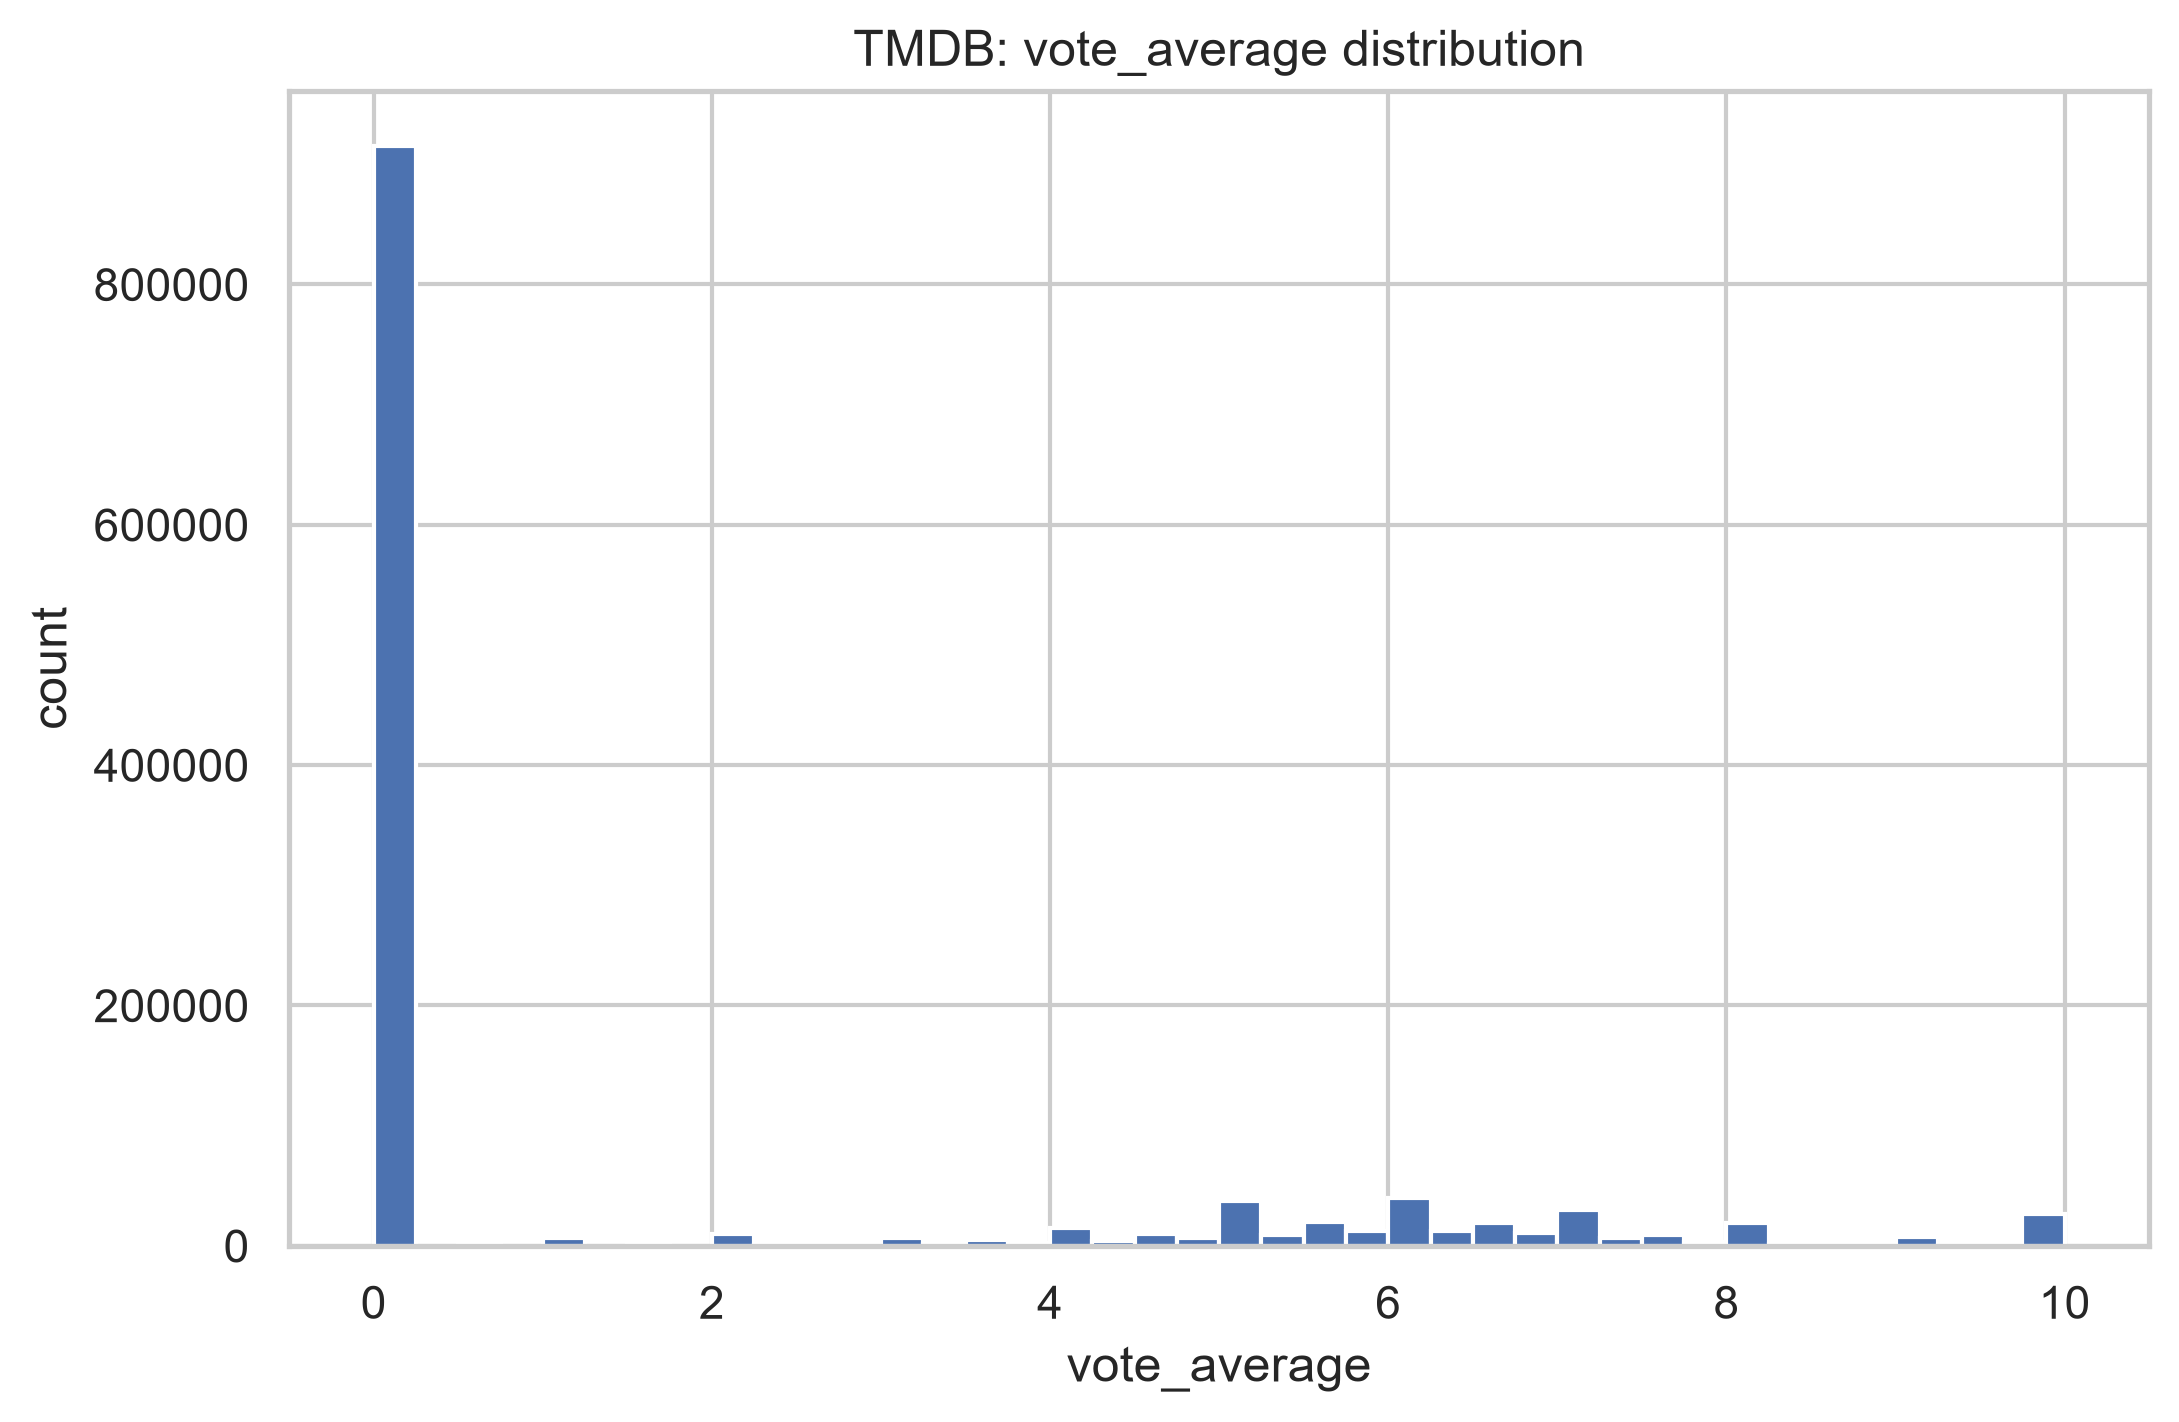
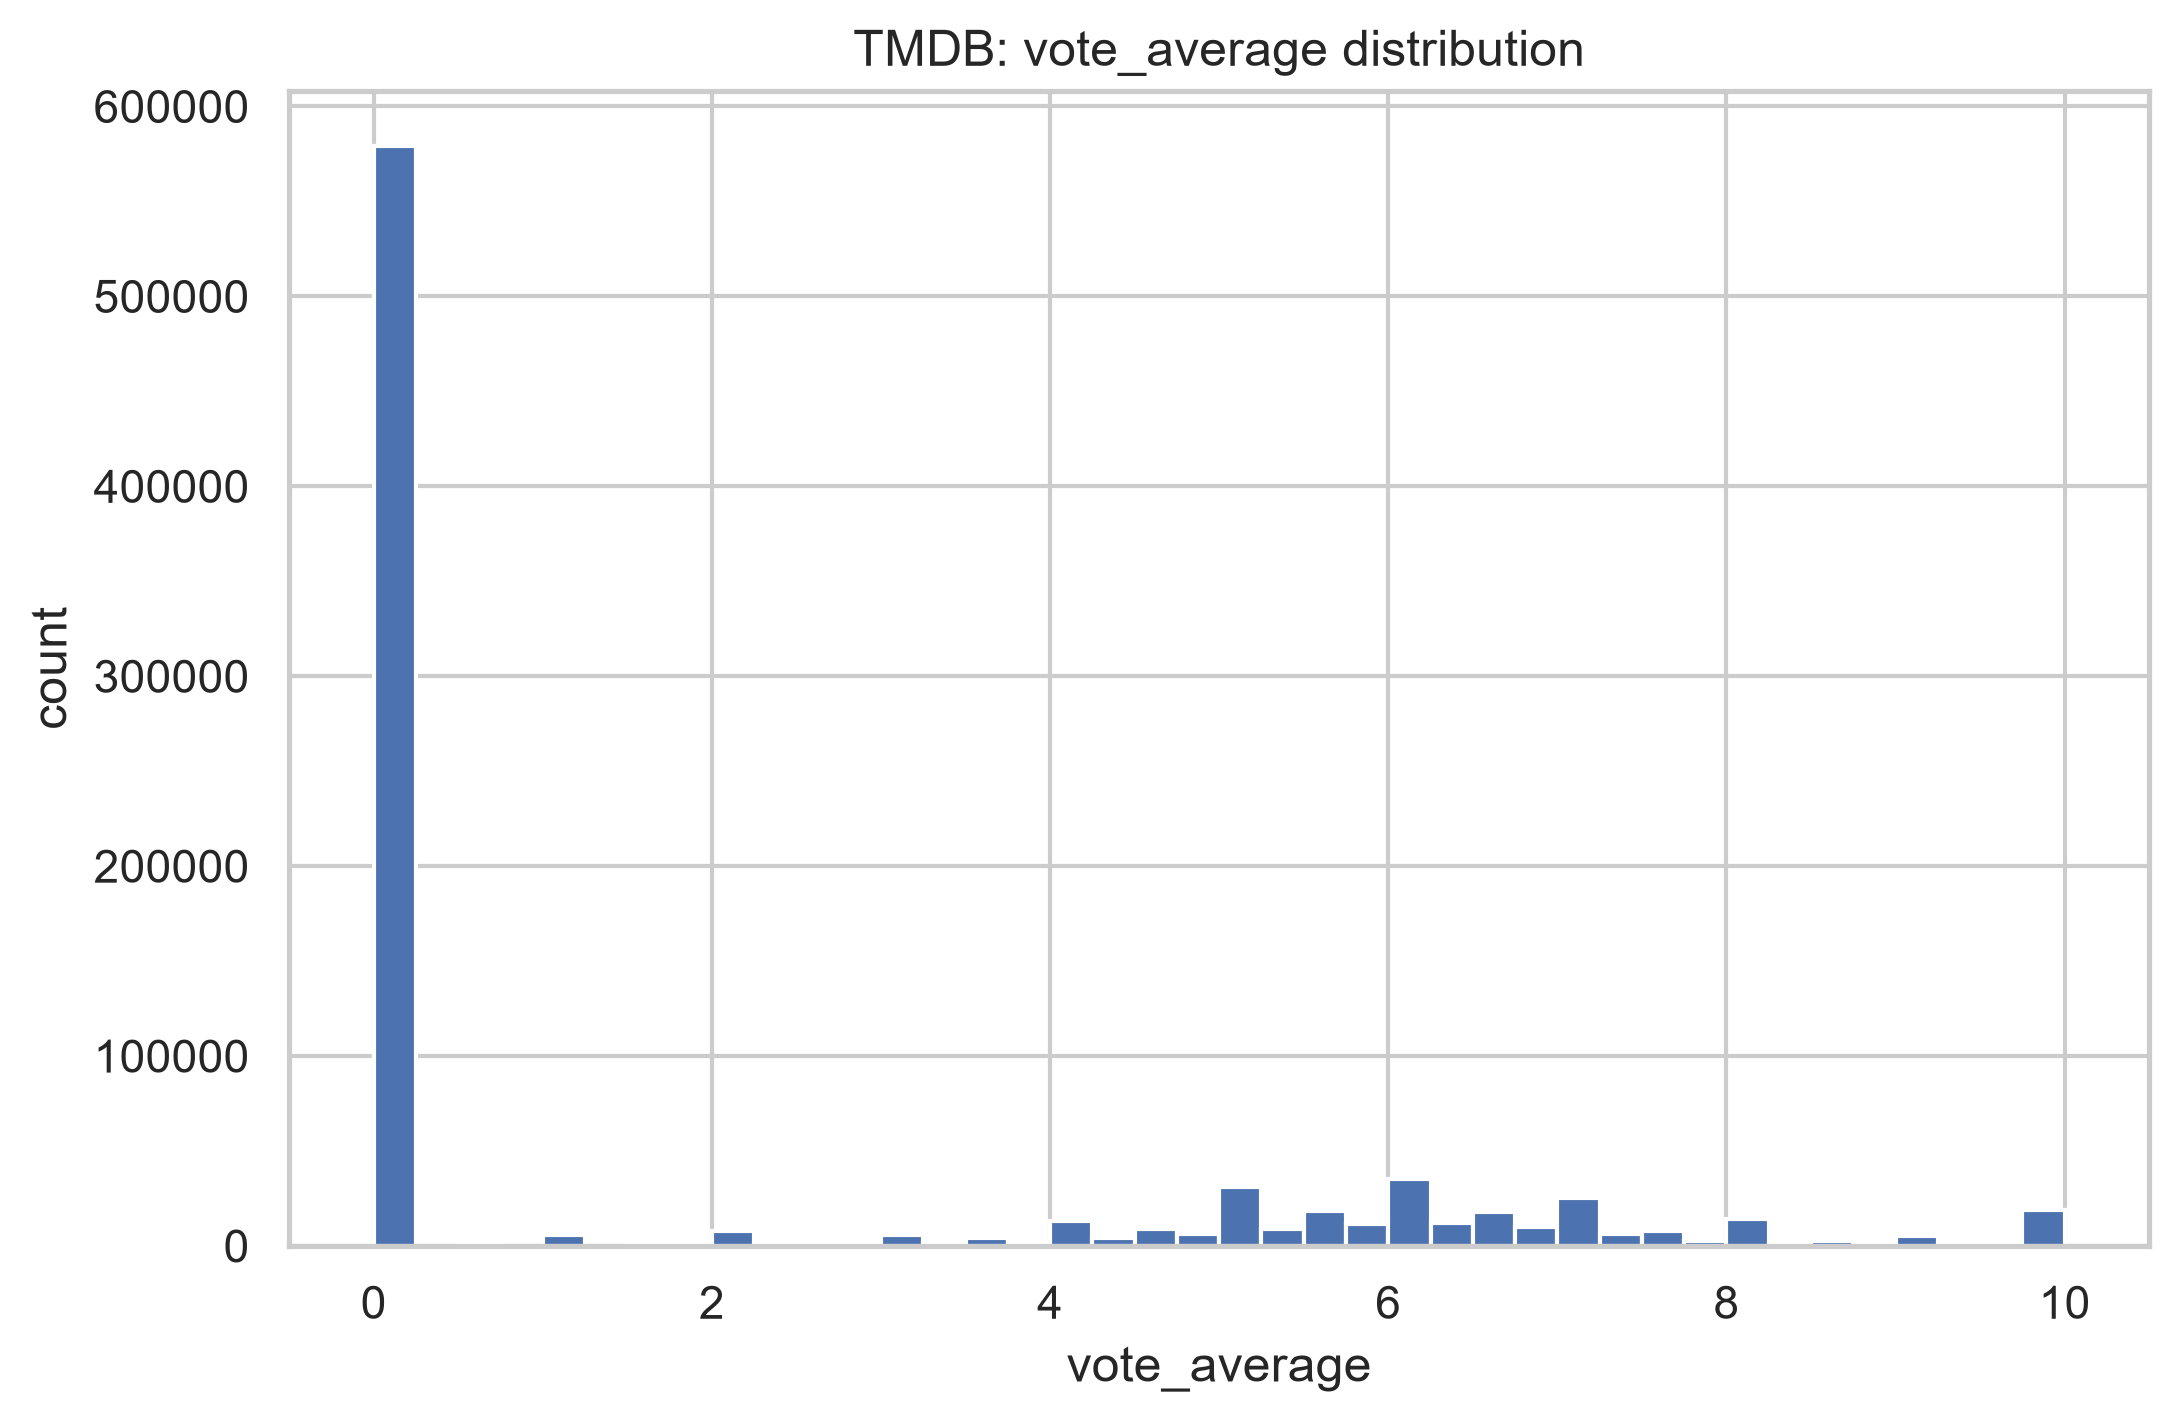
fix(eda): drop missing runtime rows and fill missing overview
- 01_overview_cleaning: drop rows with runtime still NaN after recodes
- 02_preprocessing: fill missing overview with "" on both candidates
- Re-ran both notebooks, updating reports/eda_log.md with fresh summaries
- Updated 01_* figures: missingness matrix, vote_average histogram; as a
  result of re-running 01_overview_cleaning

diff --git a/reports/eda_log.md b/reports/eda_log.md
@@ -233,3 +233,44 @@ Figures:
 
 ---
 
+## 01 Overview & Cleaning: TMDB -- summary (2026-08-12 08:36)
+
+- **TMDB rows (raw -> cleaned)**: 1,456,829 -> 871,113
+- **TMDB columns (raw -> cleaned)**: 24 -> 19
+- **Raw memory footprint (deep)**: 734.2 MB
+- **Dropped: status != 'Released'**: 54,181 rows
+- **Dropped: adult == True**: 527,840 rows
+- **Recoded budget/revenue zeros as NaN**: 93.8% / 98.1% of rows
+- **Recoded runtime zeros as NaN**: 30.5% of rows
+- **Recoded negative runtime/revenue as NaN**: 0.0001% / 0.0001% of rows
+- **Dropped: missing runtime rows**: 384,365
+- **Dropped: duplicate id rows**: 418 (kept most complete row per id)
+- **Dropped: duplicate imdb_id rows**: 2,250 (kept most complete row per imdb_id, tie-broken by lowest id)
+- **Dropped: missing title rows**: 6
+- **Dropped: inconsistent vote_average/vote_count rows**: 1,021
+- **Final missingness (top 3 by %)**: {'revenue': 97.61, 'budget': 92.92, 'tagline': 80.88}
+- **vote_count >= 1 / >= 5 / >= 10**: 291,889 / 121,536 / 77,473 rows (vote_count filter deferred to modeling stage, not yet applied)
+- **Saved to**: c:\Users\knowu\Documents\Project-Repos\Dissertation\smart-tabular-embeddings\data\processed\tmdb_clean.parquet
+
+Figures:
+- `reports/figures/01_tmdb_missingness_matrix_cleandata.png`
+- `reports/figures/01_tmdb_vote_average_hist.png`
+
+---
+
+## 02 Preprocessing: TMDB candidates -- summary (2026-08-12 08:37)
+
+- **Base cleaned dataset (from 01)**: (871113, 19)
+- **7 candidate shapes**: {'tmdb_no_nulls': (7535, 19), 'tmdb_budget_revenue_gt0': (10706, 20), 'tmdb_budget_revenue_gt5': (9174, 19), 'tmdb_budget_revenue_gt10': (8863, 19), 'tmdb_no_budget_revenue_gt0': (291889, 17), 'tmdb_no_budget_revenue_gt5': (107830, 18), 'tmdb_no_budget_revenue_gt10': (72869, 17)}
+- **Rows dropped for missing release_date**: {'tmdb_budget_revenue_gt0': 156, 'tmdb_no_budget_revenue_gt5': 48}
+- **Chosen candidates, final shape**: {'tmdb_budget_revenue_gt0': (10550, 20), 'tmdb_no_budget_revenue_gt5': (107782, 18)}
+- **tagline/overview presence (overall)**: {'tmdb_budget_revenue_gt0': '80.3% / 99.7%', 'tmdb_no_budget_revenue_gt5': '39.8% / 99.0%'}
+- **overview missing values**: filled with "" (empty string), not left as NaN (see Section 4)
+- **title == original_title (cs/ci)**: {'tmdb_budget_revenue_gt0': '81.7% / 81.9%', 'tmdb_no_budget_revenue_gt5': '64.6% / 64.8%'}
+- **Kruskal-Wallis on release_year by language**: {'tmdb_budget_revenue_gt0': 'H=429.91, p=5.632e-87', 'tmdb_no_budget_revenue_gt5': 'H=1192.53, p=4.978e-251'}
+- **release_date decomposition**: release_year + release_month_sin/cos extracted; release_date and raw release_month then dropped (see Section 5)
+- **Dropped along the way**: tagline, has_overview, vote_count, imdb_id, plus the presence/equality flags used then dropped (see Sections 2, 3, 6, 7)
+- **Saved to**: c:\Users\knowu\Documents\Project-Repos\Dissertation\smart-tabular-embeddings\data\processed\tmdb_br_gt0.parquet, c:\Users\knowu\Documents\Project-Repos\Dissertation\smart-tabular-embeddings\data\processed\tmdb_nbr_gt5.parquet
+
+---
+
